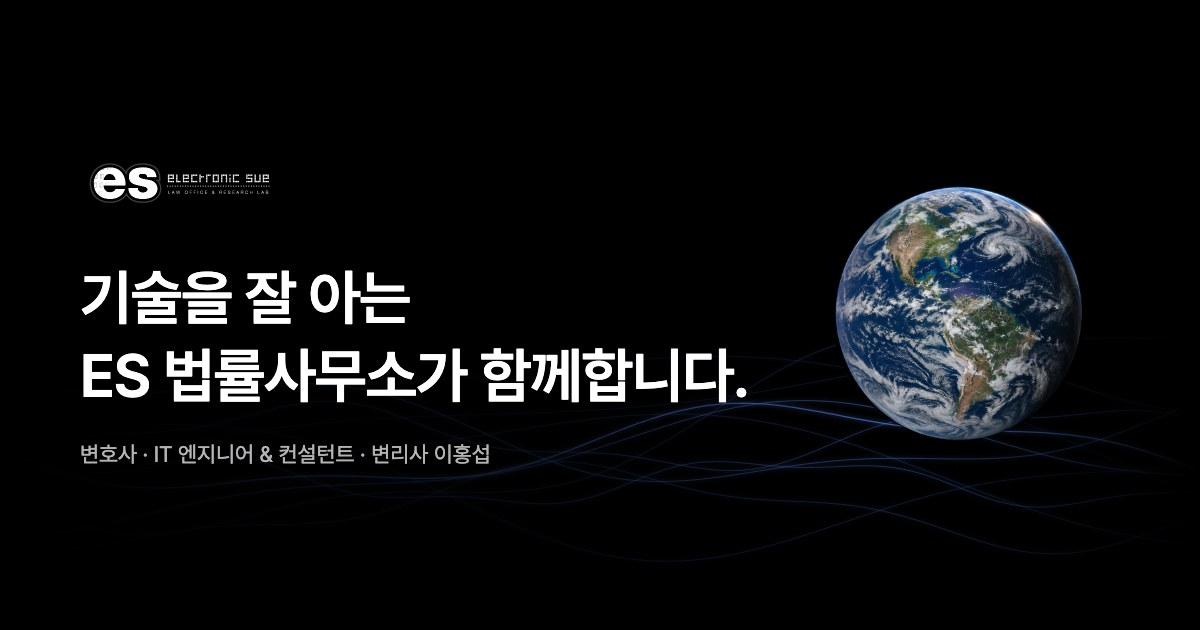
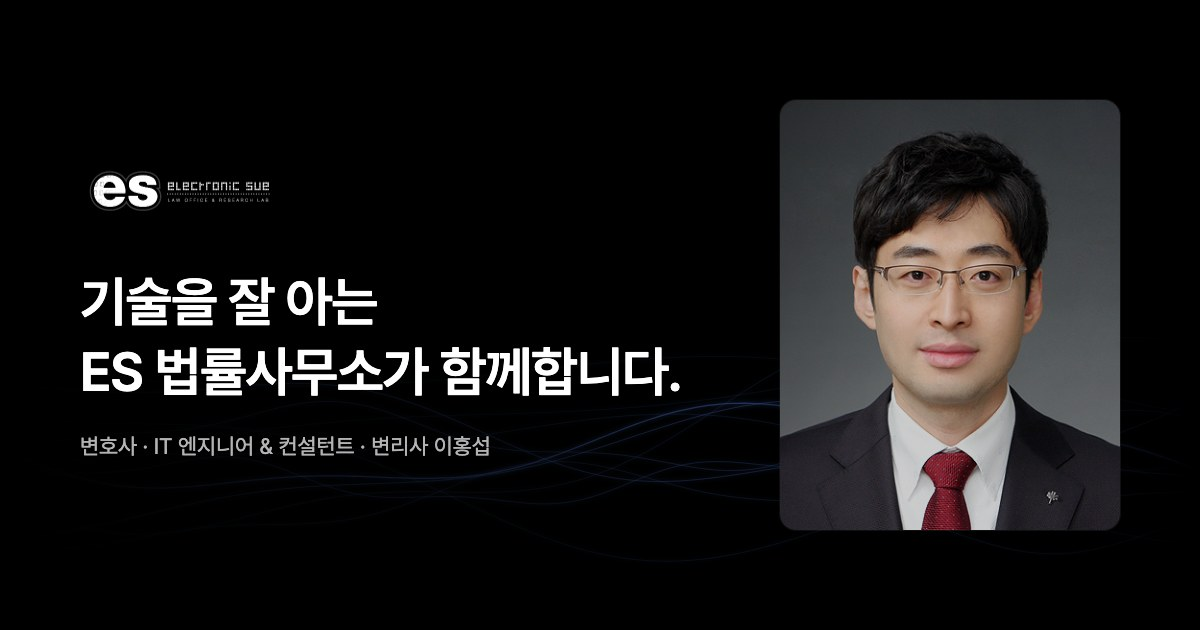
오픈그래프 이미지: 변호사 사진으로 교체

diff --git a/about.html b/about.html
@@ -9,7 +9,7 @@
 <meta property="og:title" content="ES 법률사무소 · 변호사 소개">
 <meta property="og:description" content="기술을 잘 아는 ES 법률사무소가 함께합니다. 변호사 · IT 엔지니어 & 컨설턴트 · 변리사 이홍섭">
 <meta property="og:url" content="https://cjstmdduq.github.io/esue-feedback/about.html">
-<meta property="og:image" content="https://cjstmdduq.github.io/esue-feedback/assets/og.jpg">
+<meta property="og:image" content="https://cjstmdduq.github.io/esue-feedback/assets/og.jpg?v=2">
 <meta property="og:image:width" content="1200"><meta property="og:image:height" content="630">
 <meta name="twitter:card" content="summary_large_image">
 <link rel="icon" href="assets/cropped-site-icon-1-270x270.png">

diff --git a/index.html b/index.html
@@ -9,7 +9,7 @@
 <meta property="og:title" content="ES 법률사무소">
 <meta property="og:description" content="기술을 잘 아는 ES 법률사무소가 함께합니다. 변호사 · IT 엔지니어 & 컨설턴트 · 변리사 이홍섭">
 <meta property="og:url" content="https://cjstmdduq.github.io/esue-feedback/">
-<meta property="og:image" content="https://cjstmdduq.github.io/esue-feedback/assets/og.jpg">
+<meta property="og:image" content="https://cjstmdduq.github.io/esue-feedback/assets/og.jpg?v=2">
 <meta property="og:image:width" content="1200"><meta property="og:image:height" content="630">
 <meta name="twitter:card" content="summary_large_image">
 <link rel="icon" href="assets/cropped-site-icon-1-270x270.png">
